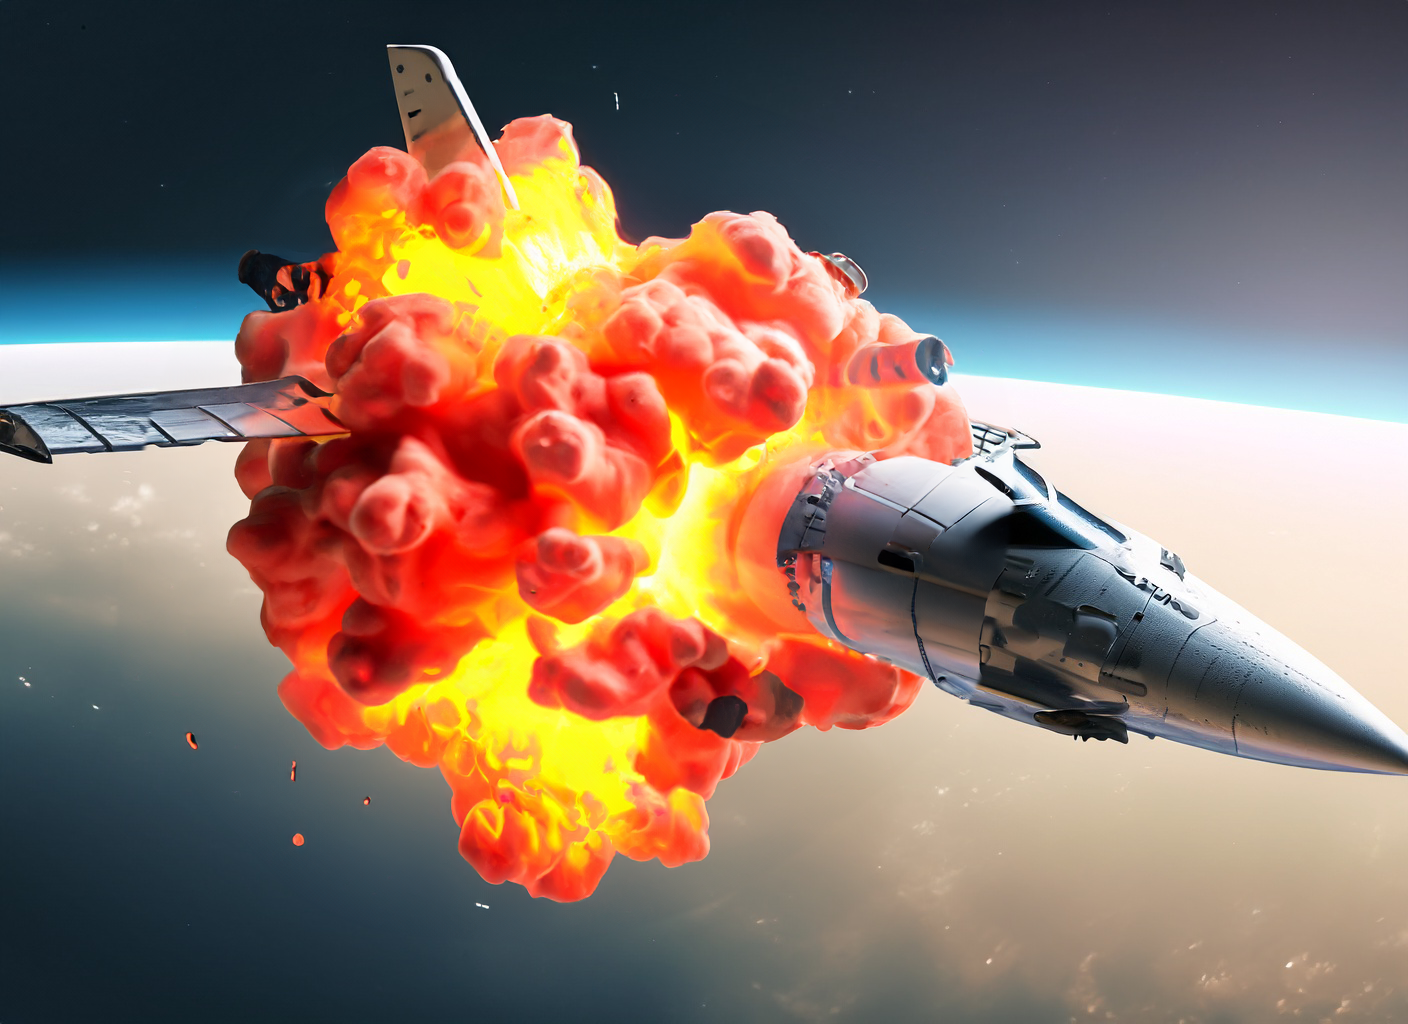
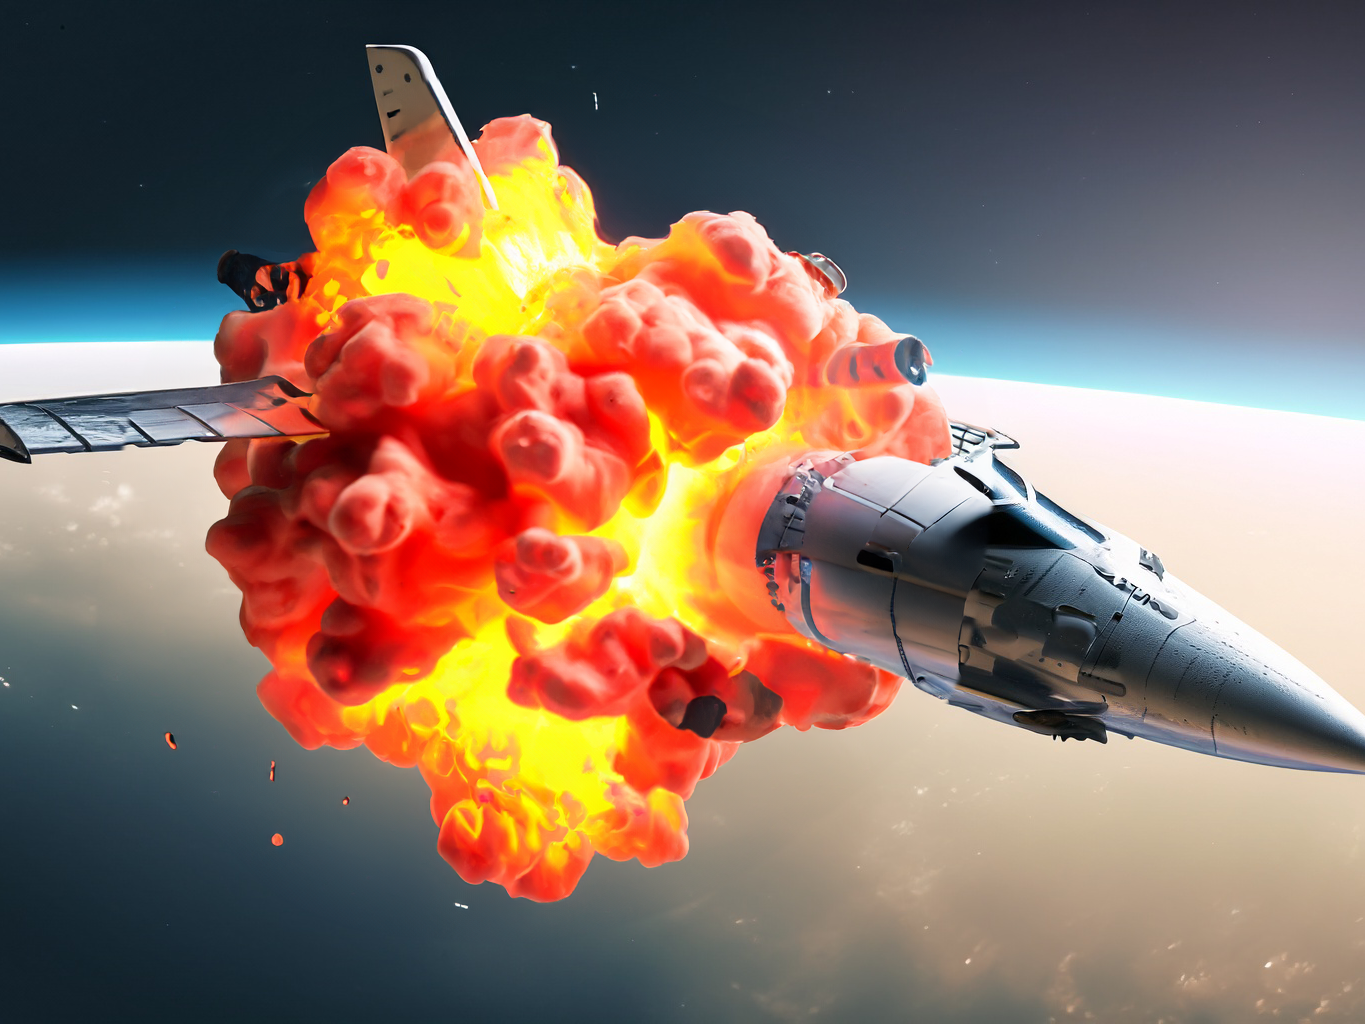
:bento: make all expo assets exactly 3:4

diff --git a/src/main/java/nz/ac/auckland/se206/App.java b/src/main/java/nz/ac/auckland/se206/App.java
@@ -260,7 +260,7 @@ public class App extends Application {
 
     // Properties
     scene.setFill(Color.web("#131d23"));
-    stage.setTitle("Galactic Saboteur");
+    stage.setTitle("Galactic Saboteur: AI-Assisted Cognitive Development");
     stage.getIcons().add(new Image("/images/logo.png"));
     stage.setMaximized(true);
 
